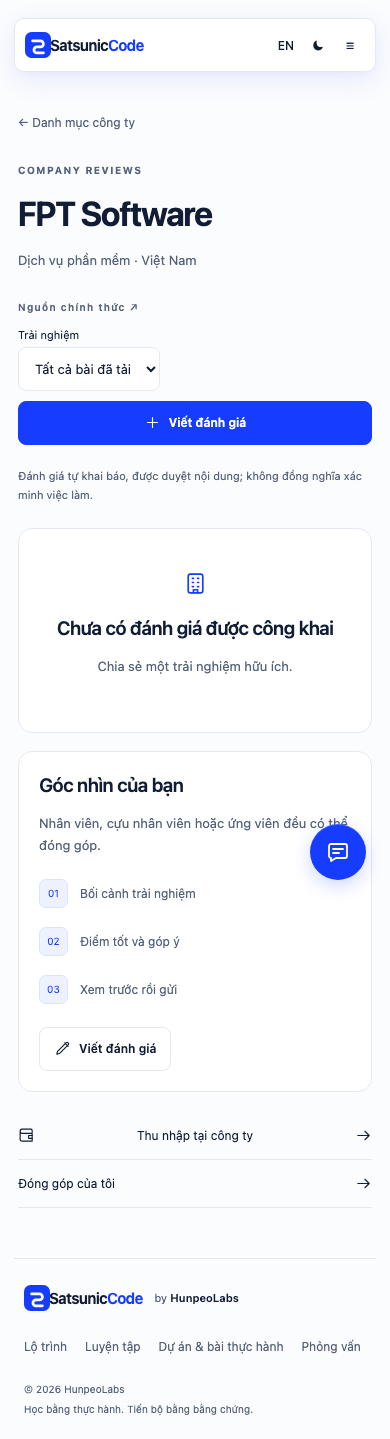
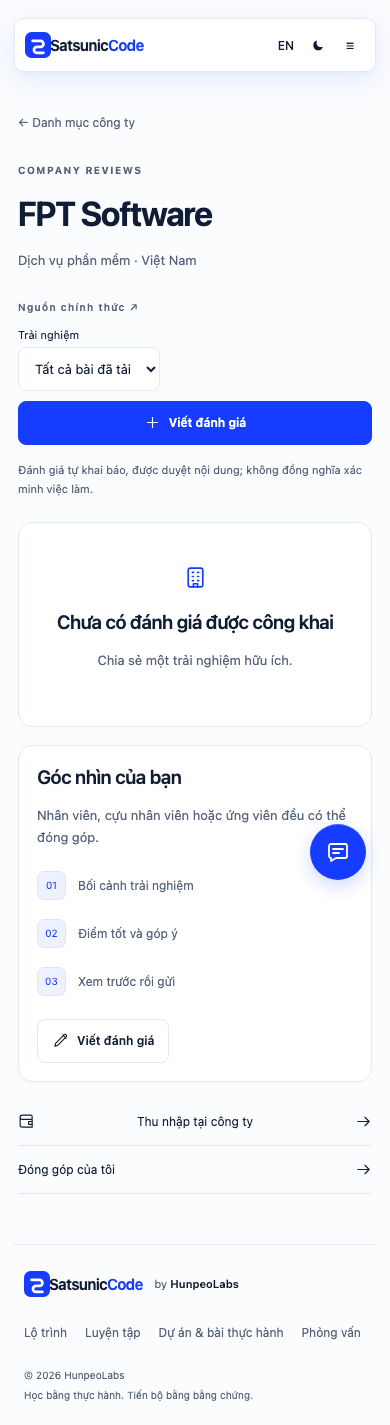
docs(release): verify compact community production checkpoint

diff --git a/docs/evidence/community-directory-profile-production-report.md b/docs/evidence/community-directory-profile-production-report.md
@@ -1,0 +1,13 @@
+# Company directory and compact UI production checkpoint
+
+Source commits: 6a4ed89 (autocomplete/moderated profile implementation) and 24c9cd2 (compact Home/Roadmap shapes and focused-control correction). Production site: https://satsuniccode.web.app/companies. Current Hosting version c586a59baaad294c; previous checkpoint 4f1731f426fe3ad8. Hosting-only release completed and31/31 artifact hashes match the saved candidate. Anonymous public reference HTTP200; private user HTTP403.
+
+Four read-only production cases (VI/EN, mobile/desktop) passed:11 published sourced companies,44px search, keyboard selection, official source links, no standalone Suggest company button, no overflow, no UI errors or localhost requests. Eleven approved metadata records were imported create-only and repeat readback confirms11existing/create0. Approved public Firestore rules and required indexes are deployed. Official metadata is not a numerical ranking; no fabricated logos/contact/reviews/ratings/salaries were imported.
+
+Current local validation:49 unit,6 integration and15 rules checks from the unchanged backend/contracts; fresh5 community/progress/layout/session browser workflows (43.9s),16 directory geometry/language/theme/Axe cases, direct focus/resize/close reproducer, TypeScript and production web build passed. Current screenshots, content inventory and source fingerprints are attached. Production browser checks cover anonymous directory only. Existing large editor bundle build warning remains outside this scoped change.
+
+Review cycles1/2 corrected theme tokens, canonical PNG metadata and test assertions; cycles3/4 corrected focused-field/footer overlap on resize and a test reload/save race. Current self-review passes the approved local/public checkpoint; it is not independent production assurance. Repository intelligence remains DEGRADED; bounded source/Git/compiler/executable evidence used.
+
+Full private profile production activation: NOT_READY. Provider readback2026-10-04 confirms billingEnabled:false and Cloud Functions API DISABLED. Production creation is gated; selecting published companies is available. Private Functions/Storage deployment, App Check/provider configuration, authorized moderator, bucket/CORS, real Google auth, live upload/moderation and live private flows are NOT TESTED or blocked. No billing/API/IAM/claims activation performed. Private profile creation/moderation is implemented and verified in the local emulator only. Quotas bound media uploads; automatic orphan retention is not introduced. Safari/Firefox, hardware screen readers and device IME are NOT TESTED.
+
+Git: scoped commits on main; unrelated six existing screenshots plus caches preserved. Push readback is verified separately before handoff. Token usage, actual billed cost and API-equivalent cost: Unavailable. Memory candidates: None.
